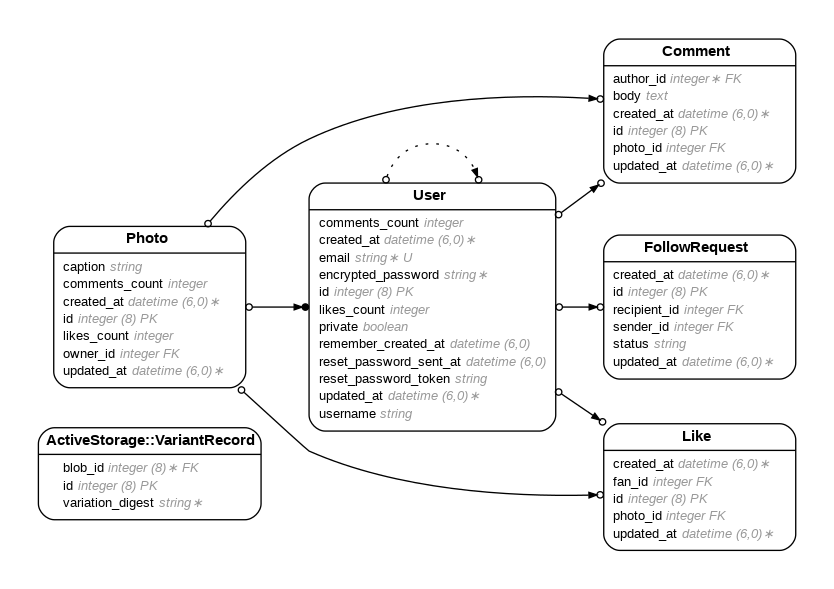
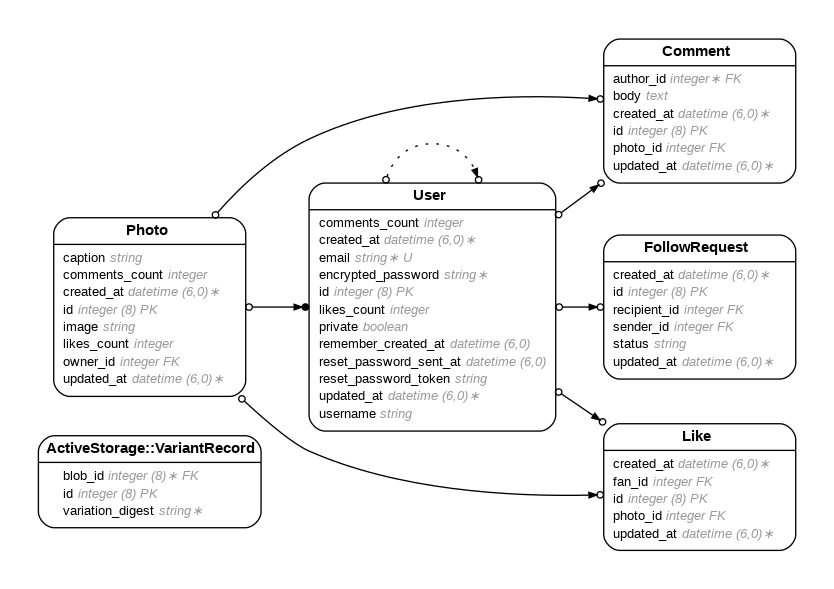
finally

Changed region(s): [[0.0312, 0.3667, 0.3429, 0.9168], [0.3429, 0.7334, 0.3741, 0.764]]

diff --git a/db/schema.rb b/db/schema.rb
@@ -10,7 +10,7 @@
 #
 # It's strongly recommended that you check this file into your version control system.
 
-ActiveRecord::Schema[7.1].define(version: 2025_05_29_062416) do
+ActiveRecord::Schema[7.1].define(version: 2025_05_29_073411) do
   # These are extensions that must be enabled in order to support this database
   enable_extension "plpgsql"
 
@@ -72,6 +72,7 @@ ActiveRecord::Schema[7.1].define(version: 2025_05_29_062416) do
     t.integer "likes_count"
     t.datetime "created_at", null: false
     t.datetime "updated_at", null: false
+    t.string "image"
   end
 
   create_table "users", force: :cascade do |t|

diff --git a/app/models/photo.rb b/app/models/photo.rb
@@ -5,12 +5,12 @@
 #  id             :bigint           not null, primary key
 #  caption        :string
 #  comments_count :integer
+#  image          :string
 #  likes_count    :integer
 #  created_at     :datetime         not null
 #  updated_at     :datetime         not null
 #  owner_id       :integer
 #
-# app/models/photo.rb
 class Photo < ApplicationRecord
   belongs_to :owner, class_name: "User"
   has_many   :comments, dependent: :destroy # Good to add dependent: :destroy

diff --git a/db/migrate/20250529073411_add_image_to_photos.rb b/db/migrate/20250529073411_add_image_to_photos.rb
@@ -1,0 +1,5 @@
+class AddImageToPhotos < ActiveRecord::Migration[7.1]
+  def change
+    add_column :photos, :image, :string
+  end
+end
